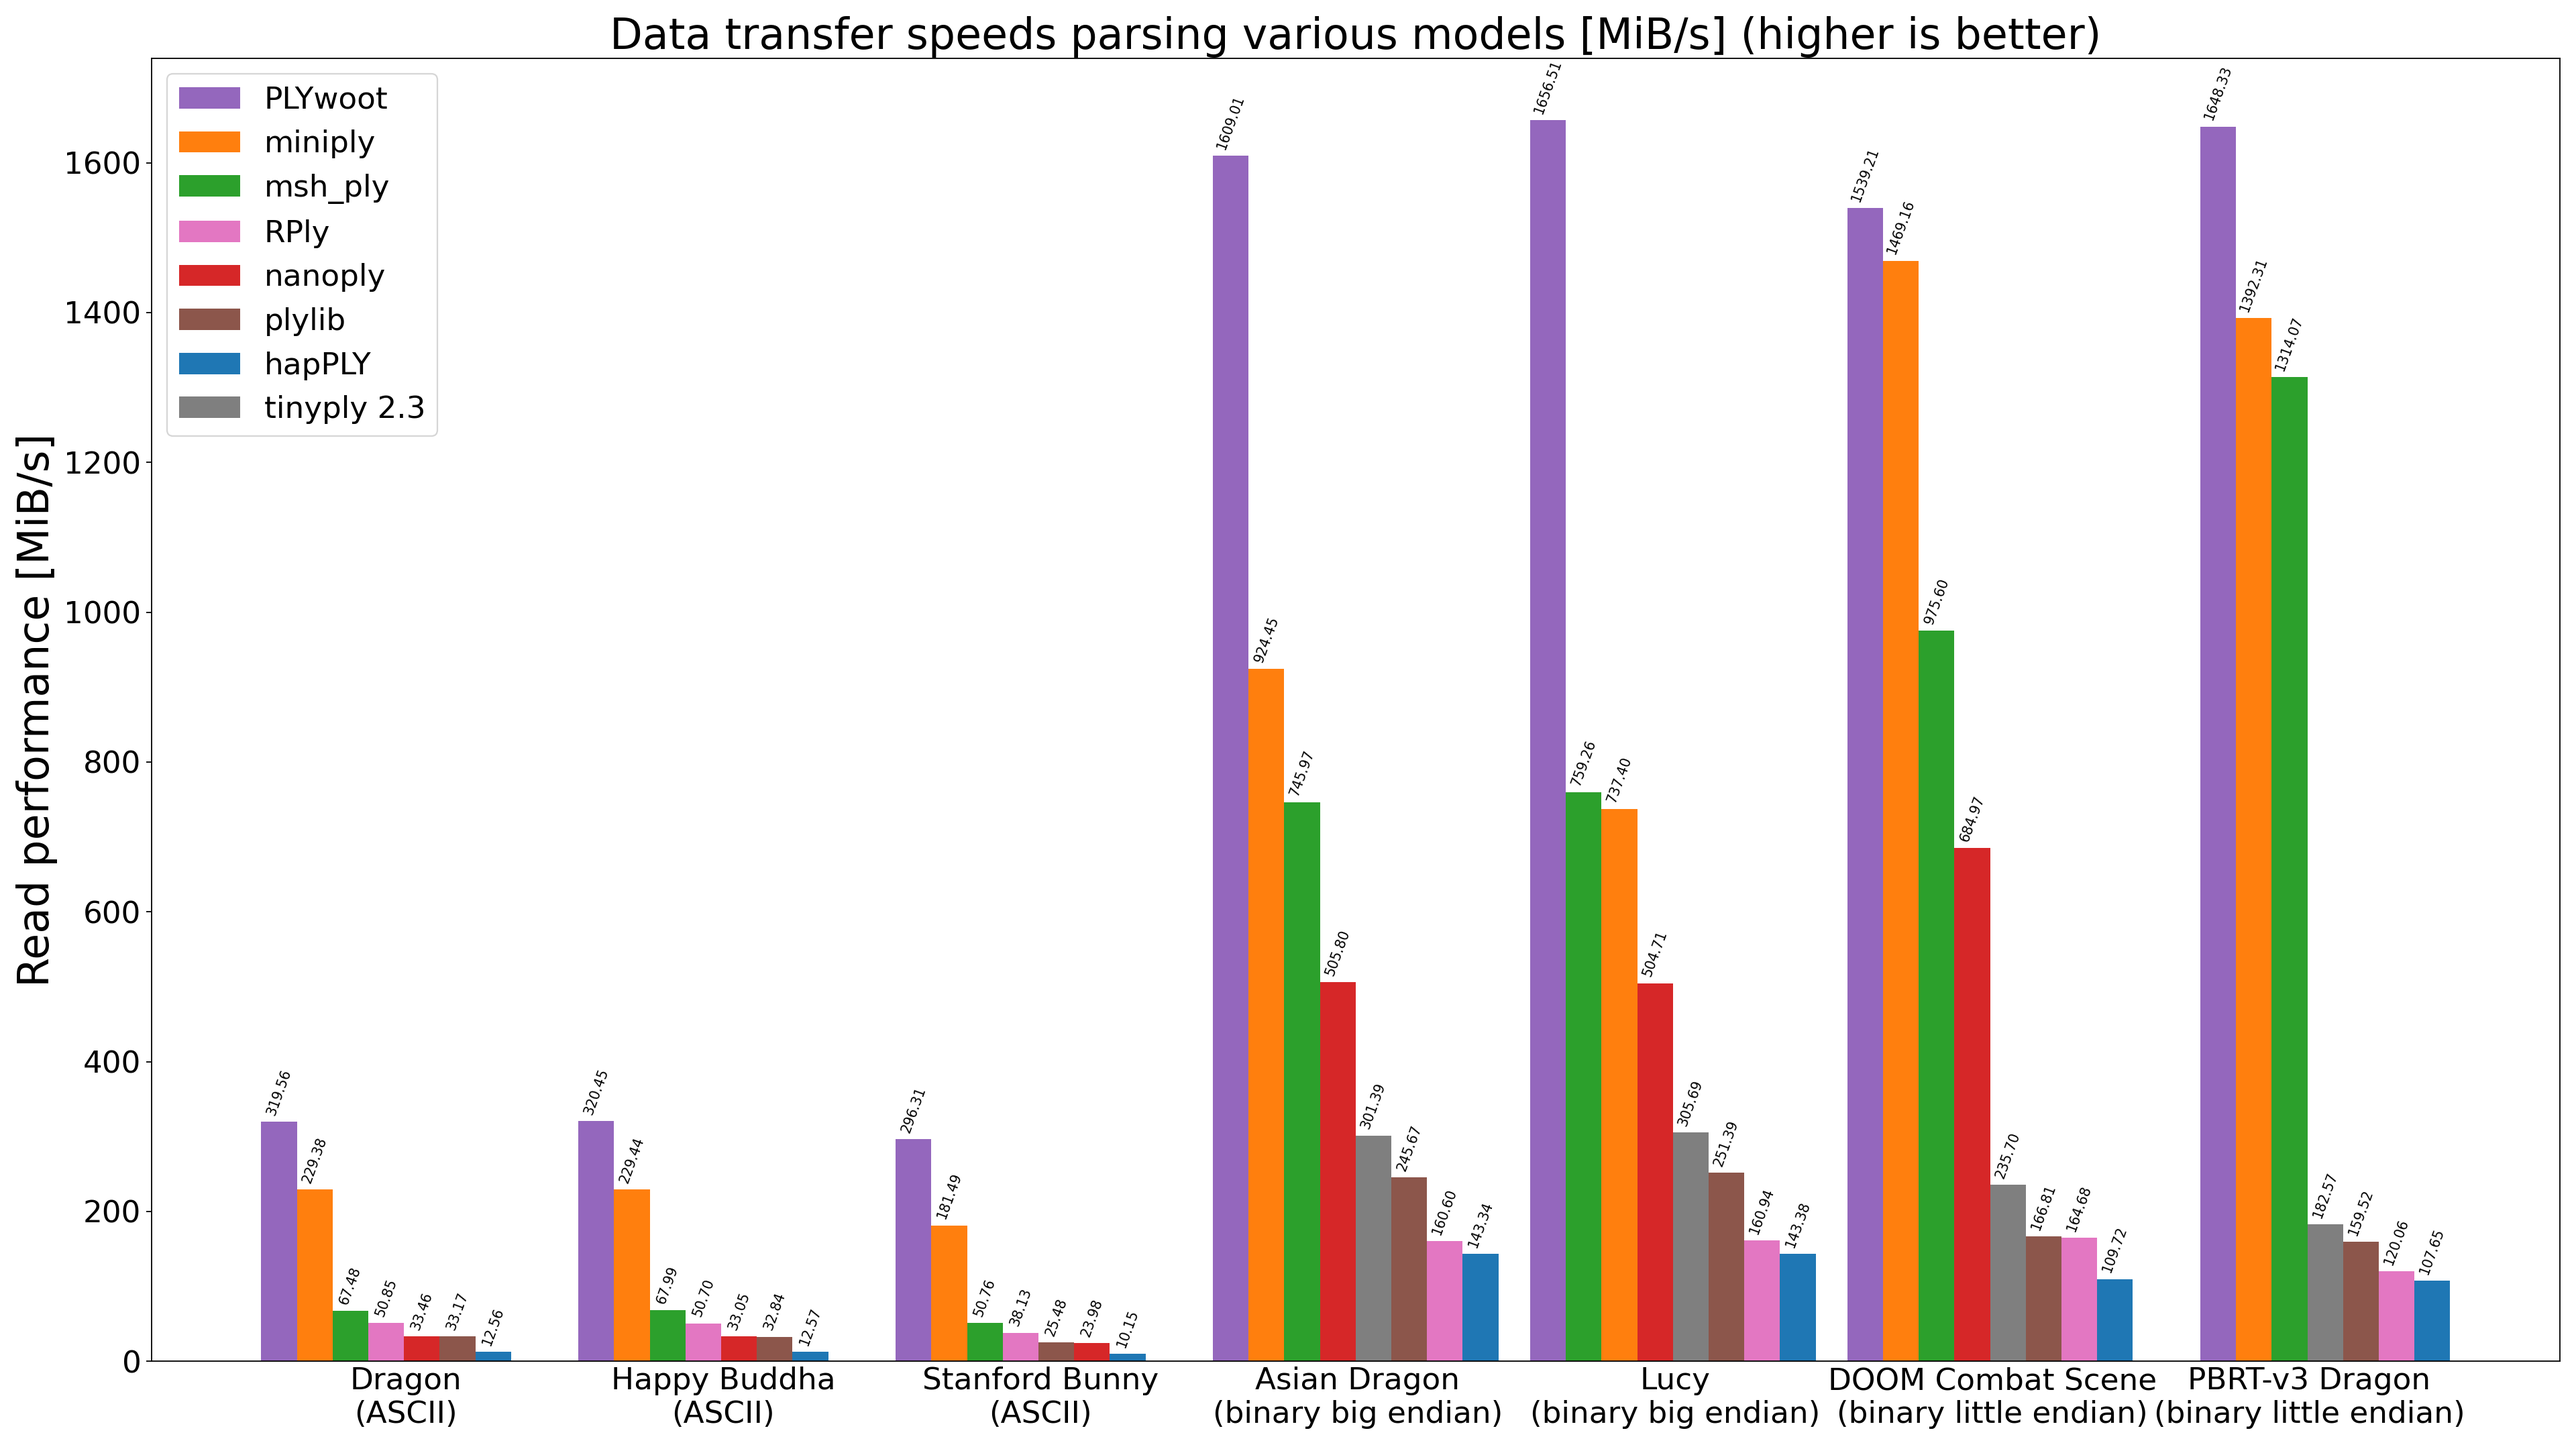
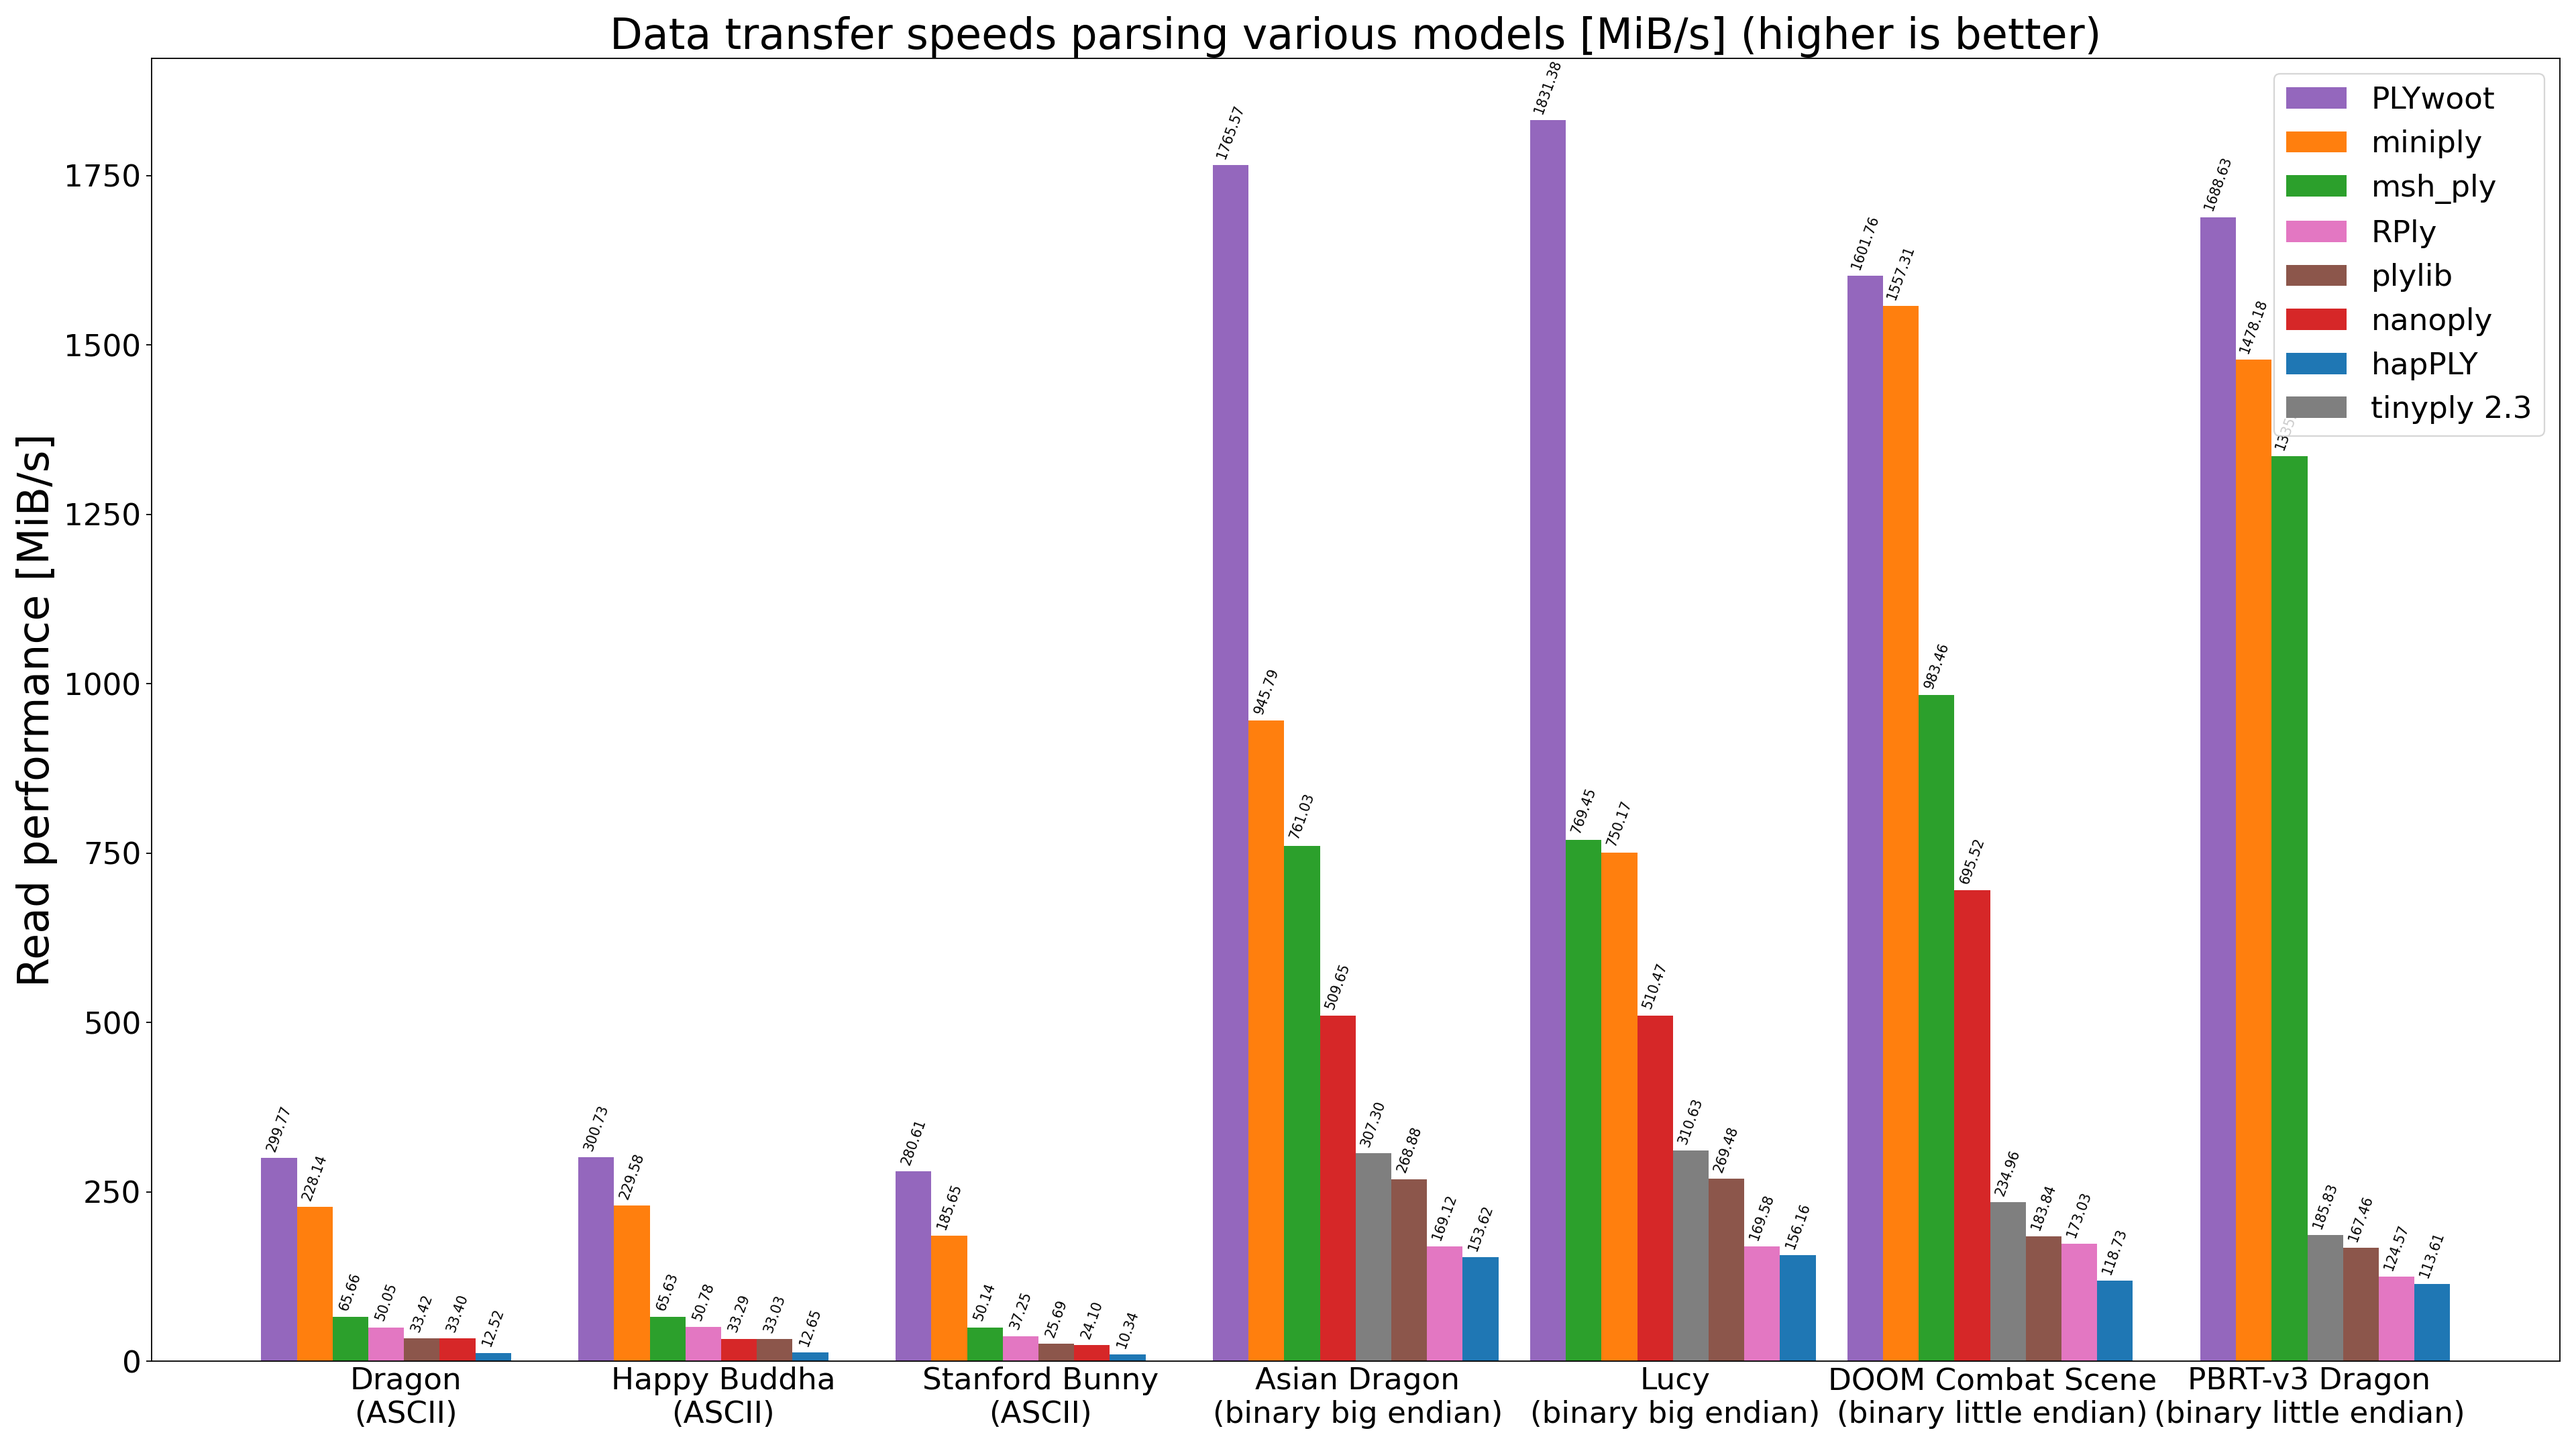
Update results after C++17 changes in PLYwoot

diff --git a/README.md b/README.md
@@ -47,13 +47,13 @@ The following lists the average relative read performance of each PLY library av
 | # | Library name                                                               | Overall        | ASCII          | Binary big endian | Binary little endian |
 |:-:|:--------------------------------------------------------------------------:|:--------------:|:--------------:|:-----------------:|:--------------------:|
 | 1 | [PLYwoot](https://github.com/ton/plywoot)                                  | *1.00*         | *1.00*         | *1.00*            | *1.00*               |
-| 2 | [miniply](https://github.com/vilya/miniply)                                | 1.69x slower   | 1.63x slower   | 2.25x slower      | 1.18x slower         |
-| 3 | [msh_ply](https://github.com/mhalber/msh)                                  | 3.09x slower   | 5.84x slower   | 2.18x slower      | 1.25x slower         |
-| 4 | [nanoply](https://github.com/cnr-isti-vclab/vcglib/tree/main/wrap/nanoply) | 6.61x slower   | 12.36x slower  | 3.28x slower      | 4.20x slower         |
-| 5 | [tinyply 2.3](https://github.com/ddiakopoulos/tinyply)                     | 7.22x slower   | N/A            | 5.42x slower      | 9.03x slower         |
-| 6 | [plylib](https://github.com/cnr-isti-vclab/vcglib/tree/main/wrap/ply)      | 9.52x slower   | 11.63x slower  | 6.59x slower      | 10.33x slower        |
-| 7 | [RPly](https://w3.impa.br/~diego/software/rply)                            | 10.60x slower  | 7.77x slower   | 10.29x slower     | 13.73x slower        |
-| 8 | [hapPLY](https://github.com/nmwsharp/happly)                               | 18.68x slower  | 29.18x slower  | 11.55x slower     | 15.31x slower        |
+| 2 | [miniply](https://github.com/vilya/miniply)                                | 1.70x slower   | 1.51x slower   | 2.44x slower      | 1.14x slower         |
+| 3 | [msh_ply](https://github.com/mhalber/msh)                                  | 3.08x slower   | 5.60x slower   | 2.38x slower      | 1.26x slower         |
+| 4 | [nanoply](https://github.com/cnr-isti-vclab/vcglib/tree/main/wrap/nanoply) | 6.49x slower   | 11.64x slower  | 3.59x slower      | 4.24x slower         |
+| 5 | [tinyply 2.3](https://github.com/ddiakopoulos/tinyply)                     | 7.49x slower   | N/A            | 5.90x slower      | 9.09x slower         |
+| 6 | [plylib](https://github.com/cnr-isti-vclab/vcglib/tree/main/wrap/ply)      | 9.27x slower   | 10.92x slower  | 6.80x slower      | 10.08x slower        |
+| 7 | [RPly](https://w3.impa.br/~diego/software/rply)                            | 10.63x slower  | 7.53x slower   | 10.80x slower     | 13.56x slower        |
+| 8 | [hapPLY](https://github.com/nmwsharp/happly)                               | 17.91x slower  | 27.13x slower  | 11.73x slower     | 14.86x slower        |
 
 
 The following graph plots average CPU time per model per PLY library (lower numbers are better):
@@ -71,11 +71,11 @@ The following lists the average relative write performance of each PLY library a
 | # | Library name                                                               | Overall        | ASCII          | Binary         |
 |:-:|:--------------------------------------------------------------------------:|:--------------:|:--------------:|:--------------:|
 | 1 | [PLYwoot](https://github.com/ton/plywoot)                                  | *1.00*         | *1.00*         | *1.00*         |
-| 2 | [msh_ply](https://github.com/mhalber/msh)                                  | 1.25x slower   | 1.27x slower   | 1.23x slower   |
-| 3 | [nanoply](https://github.com/cnr-isti-vclab/vcglib/tree/main/wrap/nanoply) | 1.82x slower   | 1.58x slower   | 2.05x slower   |
-| 4 | [tinyply 2.3](https://github.com/ddiakopoulos/tinyply)                     | 2.56x slower   | 1.40x slower   | 3.73x slower   |
-| 5 | [RPly](https://w3.impa.br/~diego/software/rply)                            | 3.04x slower   | 1.20x slower   | 4.88x slower   |
-| 6 | [hapPLY](https://github.com/nmwsharp/happly)                               | 4.13x slower   | 1.39x slower   | 6.87x slower   |
+| 2 | [msh_ply](https://github.com/mhalber/msh)                                  | 4.09x slower   | 7.10x slower   | 1.07x slower   |
+| 3 | [nanoply](https://github.com/cnr-isti-vclab/vcglib/tree/main/wrap/nanoply) | 5.39x slower   | 9.01x slower   | 1.76x slower   |
+| 4 | [RPly](https://w3.impa.br/~diego/software/rply)                            | 5.41x slower   | 6.68x slower   | 4.14x slower   |
+| 5 | [tinyply 2.3](https://github.com/ddiakopoulos/tinyply)                     | 5.46x slower   | 7.64x slower   | 3.28x slower   |
+| 6 | [hapPLY](https://github.com/nmwsharp/happly)                               | 6.81x slower   | 7.84x slower   | 5.78x slower   |
 
 
 The following graph plots average CPU time for writing a fixed triangle mesh with 100.000 semi-random triangles per PLY library (lower numbers are better):
